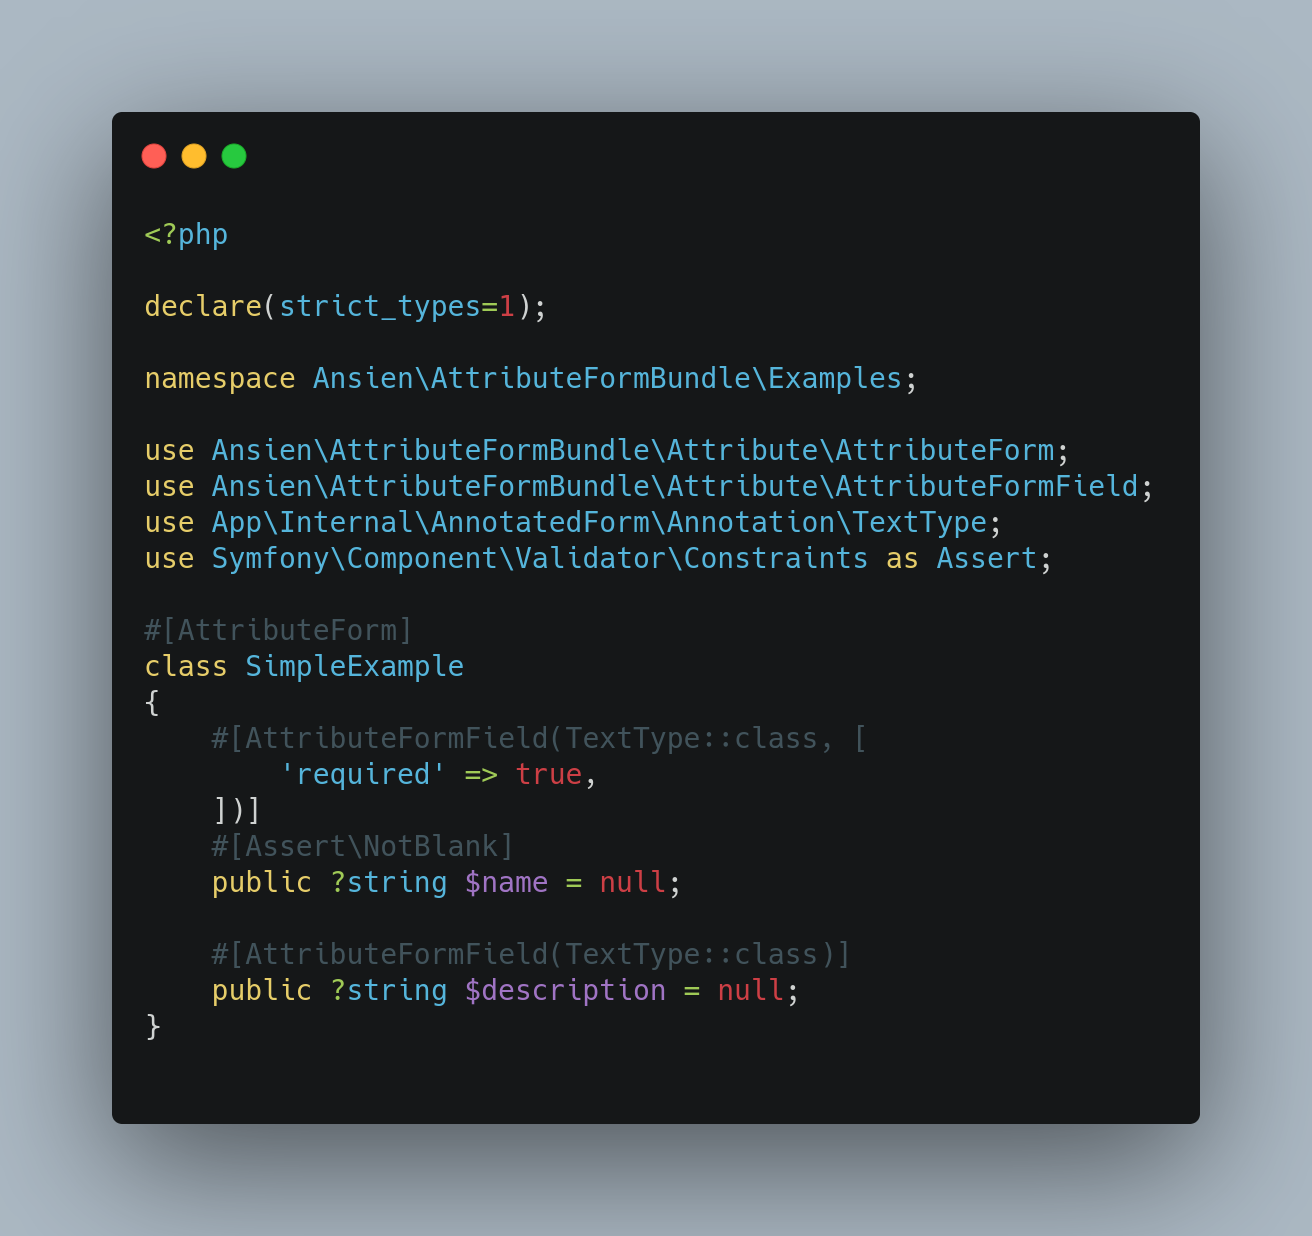
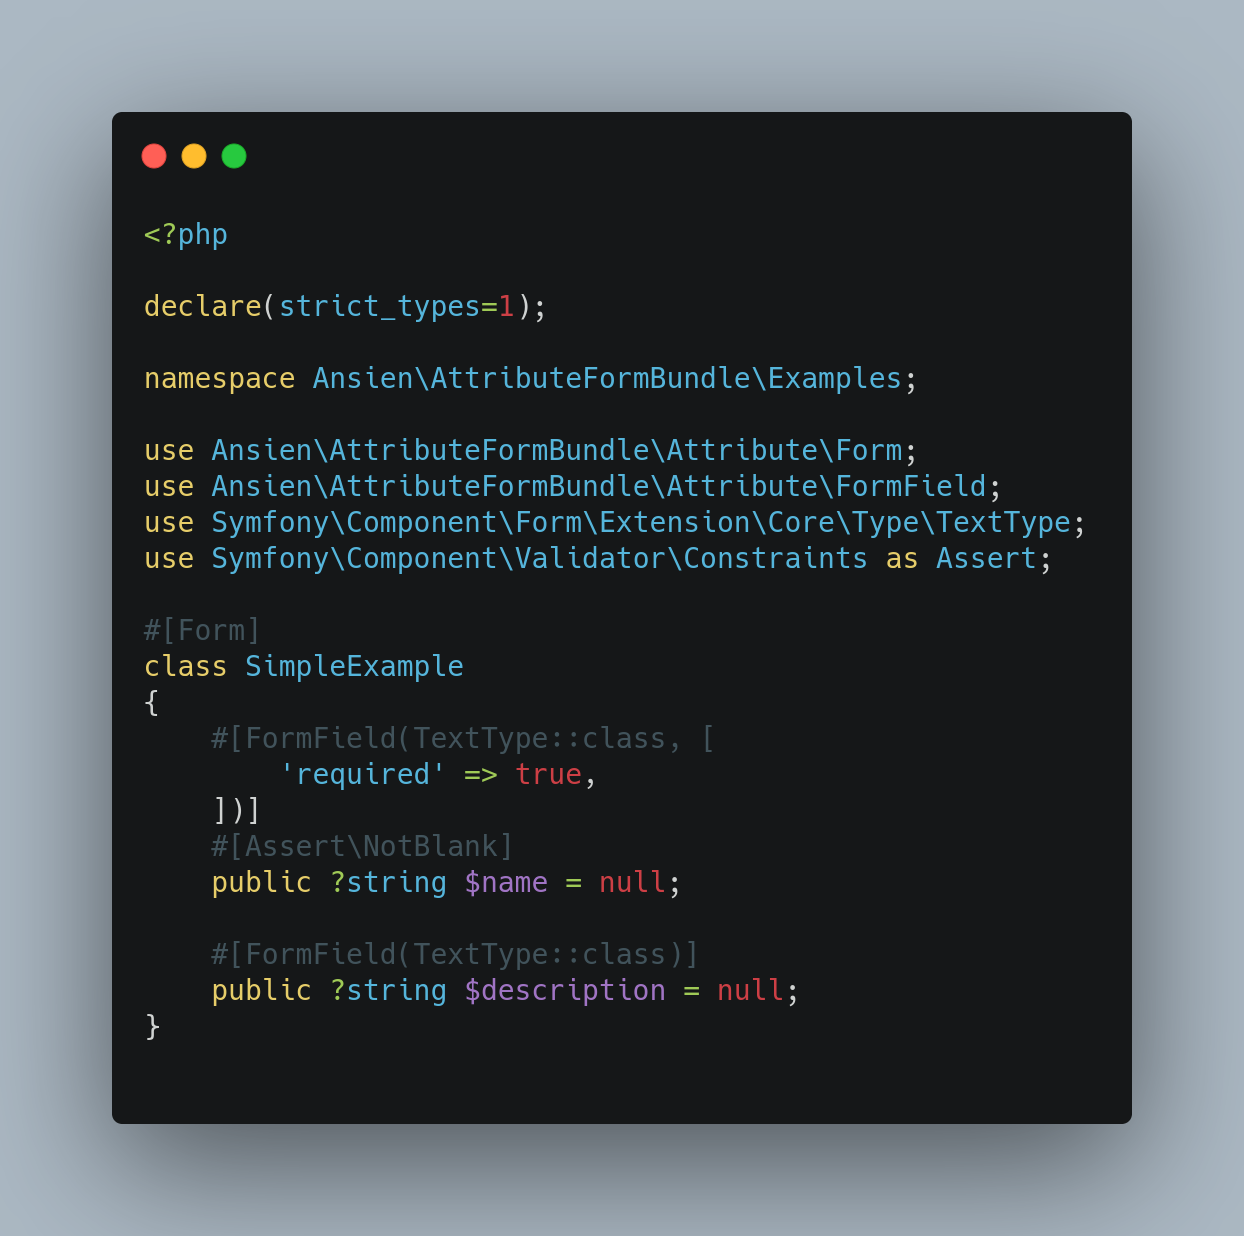
Cleanup + Attribute improvements

diff --git a/tests/TestClasses/TestForm.php b/tests/TestClasses/TestForm.php
@@ -4,8 +4,8 @@ declare(strict_types=1);
 
 namespace Ansien\AttributeFormBundle\Tests\TestClasses;
 
-use Ansien\AttributeFormBundle\Attribute\AttributeForm;
-use Ansien\AttributeFormBundle\Attribute\AttributeFormField;
+use Ansien\AttributeFormBundle\Attribute\Form;
+use Ansien\AttributeFormBundle\Attribute\FormField;
 use Ansien\AttributeFormBundle\Form\CallbackType;
 use DateTimeImmutable;
 use Symfony\Component\Form\Extension\Core\Type\ChoiceType;
@@ -14,7 +14,7 @@ use Symfony\Component\Form\Extension\Core\Type\NumberType;
 use Symfony\Component\Validator\Constraints as Assert;
 use Symfony\Component\Validator\Context\ExecutionContext;
 
-#[AttributeForm]
+#[Form]
 class TestForm
 {
     private string $exampleValue;
@@ -23,20 +23,20 @@ class TestForm
 
     // region Form fields
 
-    #[AttributeFormField(ChoiceType::class, [
+    #[FormField(ChoiceType::class, [
         'choices' => [CallbackType::VALUE, 'enabledCurrencies'],
         'choice_label' => [CallbackType::FUNCTION, 'getFromCurrencyLabel'],
     ])]
     #[Assert\NotBlank]
     public ?string $fromCurrency = null;
 
-    #[AttributeFormField(ChoiceType::class, [
+    #[FormField(ChoiceType::class, [
         'choices' => [CallbackType::VALUE, 'enabledCurrencies'],
     ])]
     #[Assert\NotBlank]
     public ?string $toCurrency = null;
 
-    #[AttributeFormField(NumberType::class, [
+    #[FormField(NumberType::class, [
         'scale' => 4,
         'input' => 'string',
     ])]
@@ -44,14 +44,14 @@ class TestForm
     #[Assert\Range(min: -1000000, max: 1000000)]
     public ?string $rate = null;
 
-    #[AttributeFormField(DateType::class, [
+    #[FormField(DateType::class, [
         'widget' => 'single_text',
         'input' => 'datetime_immutable',
     ])]
     #[Assert\NotBlank]
     public ?DateTimeImmutable $validFrom = null;
 
-    #[AttributeFormField(DateType::class, [
+    #[FormField(DateType::class, [
         'widget' => 'single_text',
         'input' => 'datetime_immutable',
     ])]

diff --git a/src/Form/AbstractAttributeType.php b/src/Form/AbstractAttributeType.php
@@ -4,7 +4,7 @@ declare(strict_types=1);
 
 namespace Ansien\AttributeFormBundle\Form;
 
-use Ansien\AttributeFormBundle\Attribute\AttributeFormField;
+use Ansien\AttributeFormBundle\Attribute\FormField;
 use Cocur\Slugify\Slugify;
 use ReflectionClass;
 use Symfony\Component\Form\AbstractType;
@@ -28,7 +28,7 @@ class AbstractAttributeType extends AbstractType
         foreach ($properties ?? [] as $fieldName => $propertyAnnotations) {
             foreach ($propertyAnnotations as $propertyAnnotation) {
                 switch (get_class($propertyAnnotation)) {
-                    case AttributeFormField::class:
+                    case FormField::class:
                         $this->addField($fieldName, $propertyAnnotation, $builder);
                         break;
                 }
@@ -41,7 +41,7 @@ class AbstractAttributeType extends AbstractType
         // @TODO
     }
 
-    protected function addField(string $fieldName, AttributeFormField $propertyAnnotation, FormBuilderInterface $builder): void
+    protected function addField(string $fieldName, FormField $propertyAnnotation, FormBuilderInterface $builder): void
     {
         $options = $this->transformOptions($builder->getData(), $propertyAnnotation->options);
 
@@ -88,7 +88,7 @@ class AbstractAttributeType extends AbstractType
         $propertyAnnotations = [];
         foreach ($reflectionClass->getProperties() as $property) {
             $propertyName = $property->getName();
-            $attributes = $property->getAttributes(AttributeFormField::class);
+            $attributes = $property->getAttributes(FormField::class);
 
             foreach ($attributes as $attribute) {
                 $propertyAnnotations[$propertyName][] = $attribute->newInstance();

diff --git a/src/DependencyInjection/AttributeFormExtension.php b/src/DependencyInjection/AttributeFormExtension.php
@@ -8,7 +8,7 @@ use Exception;
 use Symfony\Component\Config\FileLocator;
 use Symfony\Component\DependencyInjection\ContainerBuilder;
 use Symfony\Component\DependencyInjection\Extension\Extension;
-use Symfony\Component\DependencyInjection\Loader\YamlFileLoader;
+use Symfony\Component\DependencyInjection\Loader\XmlFileLoader;
 
 class AttributeFormExtension extends Extension
 {
@@ -17,11 +17,8 @@ class AttributeFormExtension extends Extension
      */
     public function load(array $configs, ContainerBuilder $container): void
     {
-        $loader = new YamlFileLoader(
-            $container,
-            new FileLocator(__DIR__ . '/../Resources/config')
-        );
+        $loader = new XmlFileLoader($container, new FileLocator(__DIR__ . '/../Resources/config'));
 
-        $loader->load('services.yaml');
+        $loader->load('services.xml');
     }
 }

diff --git a/examples/3. FunctionCallbackExample.php b/examples/3. FunctionCallbackExample.php
@@ -4,19 +4,18 @@ declare(strict_types=1);
 
 namespace Ansien\AttributeFormBundle\Examples;
 
-use Ansien\AttributeFormBundle\Attribute\AttributeForm;
-use Ansien\AttributeFormBundle\Attribute\AttributeFormField;
+use Ansien\AttributeFormBundle\Attribute\Form;
+use Ansien\AttributeFormBundle\Attribute\FormField;
 use Ansien\AttributeFormBundle\Form\CallbackType;
-use DateTimeImmutable;
 use Symfony\Component\Form\Extension\Core\Type\ChoiceType;
 use Symfony\Component\Validator\Constraints as Assert;
 
-#[AttributeForm]
+#[Form]
 class FunctionCallbackExample
 {
     private array $enabledCurrencies;
 
-    #[AttributeFormField(ChoiceType::class, [
+    #[FormField(ChoiceType::class, [
         'choices' => [CallbackType::FUNCTION, 'getEnabledCurrenciesCb'],
         'choice_label' => [CallbackType::FUNCTION, 'getCurrencyLabelCb'],
     ])]

diff --git a/examples/1. SimpleExample.php b/examples/1. SimpleExample.php
@@ -4,20 +4,20 @@ declare(strict_types=1);
 
 namespace Ansien\AttributeFormBundle\Examples;
 
-use Ansien\AttributeFormBundle\Attribute\AttributeForm;
-use Ansien\AttributeFormBundle\Attribute\AttributeFormField;
-use App\Internal\AnnotatedForm\Annotation\TextType;
+use Ansien\AttributeFormBundle\Attribute\Form;
+use Ansien\AttributeFormBundle\Attribute\FormField;
+use Symfony\Component\Form\Extension\Core\Type\TextType;
 use Symfony\Component\Validator\Constraints as Assert;
 
-#[AttributeForm]
+#[Form]
 class SimpleExample
 {
-    #[AttributeFormField(TextType::class, [
+    #[FormField(TextType::class, [
         'required' => true,
     ])]
     #[Assert\NotBlank]
     public ?string $name = null;
 
-    #[AttributeFormField(TextType::class)]
+    #[FormField(TextType::class)]
     public ?string $description = null;
 }

diff --git a/examples/2. ValueCallbackExample.php b/examples/2. ValueCallbackExample.php
@@ -4,19 +4,18 @@ declare(strict_types=1);
 
 namespace Ansien\AttributeFormBundle\Examples;
 
-use Ansien\AttributeFormBundle\Attribute\AttributeForm;
-use Ansien\AttributeFormBundle\Attribute\AttributeFormField;
+use Ansien\AttributeFormBundle\Attribute\Form;
+use Ansien\AttributeFormBundle\Attribute\FormField;
 use Ansien\AttributeFormBundle\Form\CallbackType;
-use DateTimeImmutable;
 use Symfony\Component\Form\Extension\Core\Type\ChoiceType;
 use Symfony\Component\Validator\Constraints as Assert;
 
-#[AttributeForm]
+#[Form]
 class CallbackExample
 {
     public array $enabledCurrencies;
 
-    #[AttributeFormField(ChoiceType::class, [
+    #[FormField(ChoiceType::class, [
         'choices' => [CallbackType::VALUE, 'enabledCurrencies'],
         'choice_label' => [CallbackType::FUNCTION, 'getCurrencyLabelCb'],
     ])]

diff --git a/examples/4. QueryBuilderCallbackExample.php b/examples/4. QueryBuilderCallbackExample.php
@@ -4,17 +4,19 @@ declare(strict_types=1);
 
 namespace Ansien\AttributeFormBundle\Examples;
 
-use Ansien\AttributeFormBundle\Attribute\AttributeForm;
-use Ansien\AttributeFormBundle\Attribute\AttributeFormField;
+use Ansien\AttributeFormBundle\Attribute\Form;
+use Ansien\AttributeFormBundle\Attribute\FormField;
 use Ansien\AttributeFormBundle\Form\CallbackType;
 use Doctrine\ORM\EntityRepository;
 use Symfony\Component\Validator\Constraints as Assert;
+use Symfony\Bridge\Doctrine\Form\Type\EntityType;
 use TestEntity;
 
-#[AttributeForm]
+
+#[Form]
 class QueryBuilderCallbackExample
 {
-    #[AttributeFormField(EntityType::class, [
+    #[FormField(EntityType::class, [
         'class' => TestEntity::class,
         'choice_label' => 'name',
         'query_builder' => [CallbackType::FUNCTION, 'getTestEntityQbCb'],

diff --git a/src/Attribute/FormField.php b/src/Attribute/FormField.php
@@ -7,7 +7,7 @@ namespace Ansien\AttributeFormBundle\Attribute;
 use Attribute;
 
 #[Attribute]
-class AttributeFormField
+class FormField
 {
     public function __construct(
         public string $type,

diff --git a/src/Attribute/Form.php b/src/Attribute/Form.php
@@ -7,6 +7,6 @@ namespace Ansien\AttributeFormBundle\Attribute;
 use Attribute;
 
 #[Attribute]
-class AttributeForm
+class Form
 {
 }
